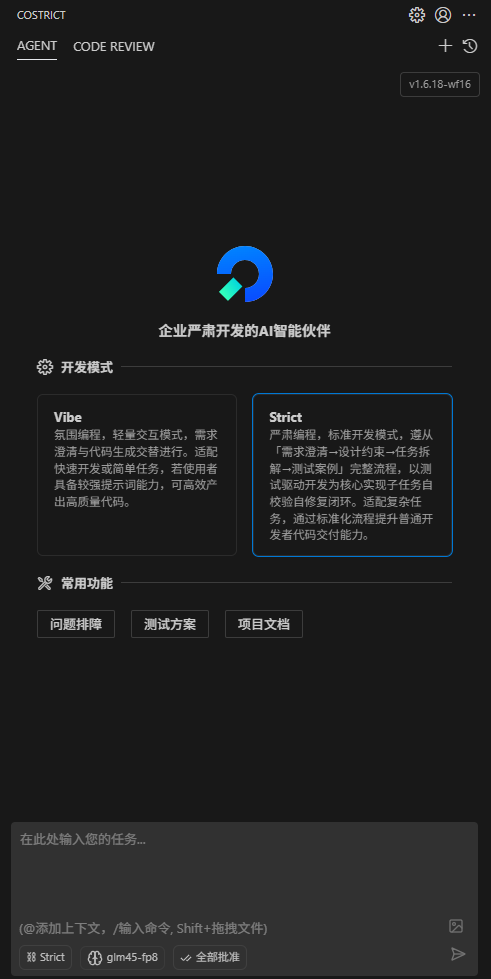
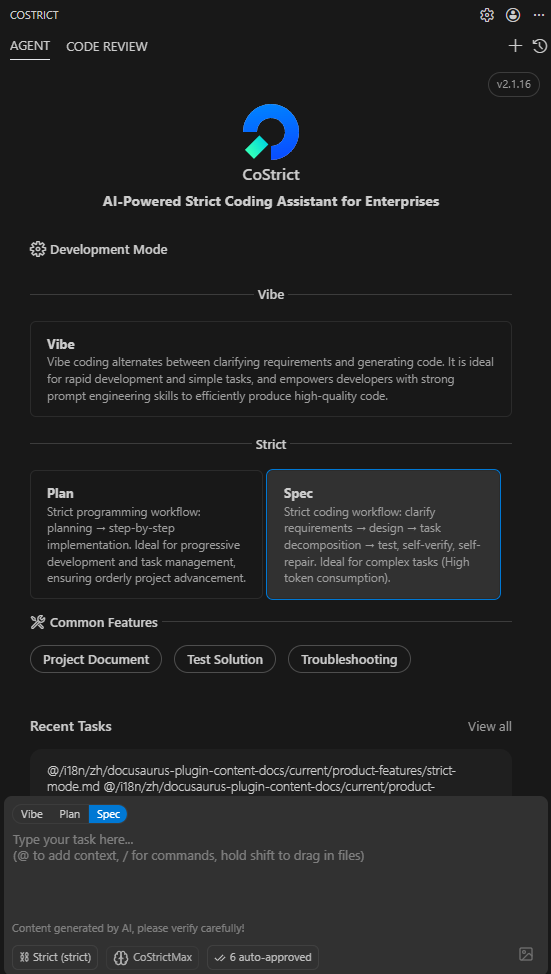
feat: update documentation for Skills, Plan, and Strict modes with improved descriptions and links

diff --git a/docs/product-features/strict-mode.md b/docs/product-features/strict-mode.md
@@ -2,29 +2,13 @@
 sidebar_position: 1
 ---
 
-# Strict Mode
+# Strict Mode (Spec Mode)
 
-Strict Mode is a structured, systematic development approach that rigorously follows enterprise development process standards. Through project understanding, requirement clarification, task decomposition, and self-testing with self-repair, it helps AI better comprehend enterprise business logic and continuously improve code generation quality. This shifts the focus of AI programming from code generation speed to code generation quality, achieving true efficiency improvements.
+Serious programming following the **"Requirement Clarification → Design → Task Decomposition → Self-Testing with Self-Repair"** workflow. Suitable for complex tasks.
 
-------------------------------------------------------------------------
+## New Spec Mode Enhances Understanding of Existing Projects, Making AI Programming More Reliable
 
-# Introducing Strict Mode for Enhanced Project Understanding and More Reliable AI Programming
-
-In this update, we have introduced two development modes—Vibe and Strict—to meet different development scenario requirements.
-
-<!-- ![descript](./img/strict-mode/image1.png) -->
-
-### 1.1 Strict Mode
-
-Strict Mode, also known as the Serious Programming Mode, follows the **"Project Reverse Engineering → Requirement Clarification → Design → Task Decomposition → Self-Testing with Self-Repair"** workflow. It effectively helps AI accurately understand existing project dependencies and reuse established code standards, improving AI delivery quality through standardized processes and **generating more usable code.**
-
-It is worth noting that Strict Mode consumes a significant amount of tokens and is recommended for complex task scenarios such as **"adding new features to existing code."**
-
-### 1.2 Vibe Mode
-
-Vibe Mode continues to use the previous development approach, alternating between requirement clarification and code generation. It is **suitable for rapid development or simple task scenarios.** If users have strong prompt engineering skills, they can still produce high-quality code through Vibe Mode.
-
-------------------------------------------------------------------------
+![descript](./img/strict-mode/image1.png)
 
 ## Built-in Intelligent Tools to Enhance Generation Quality and Improve Coding Standards
 
@@ -32,11 +16,11 @@ CoStrict includes multiple intelligent tools to enhance generation quality, incl
 
 ### 2.1 Project Understanding
 
-The large model generates a project knowledge base and rules **"optimized for AI reading"** to help AI understand business logic and improve code generation accuracy. This can be used in both Strict Mode and Vibe Mode.
+The large model generates a project knowledge base and rules **"optimized for AI reading"** to help AI understand business logic and improve code generation accuracy.
 
 ### 2.2 Testing Strategy
 
-Analyzes and generates project testing strategies, which can be used in both Strict Mode and Vibe Mode.
+Analyzes and generates project testing strategies, which can be used in both Spec Mode and Vibe Mode.
 
 ### 2.3 Troubleshooting
 
@@ -46,9 +30,7 @@ For detailed usage instructions, please refer to the [CoStrict 2.0 User Manual](
 
 ## Supporting Intelligent Collaboration Workflow for More Efficient and Controllable Development
 
-Strict Mode supports visualization and editing of the task process, allowing developers to directly modify documents during execution and collaborate with AI in real-time. The entire workflow follows the automated chain of **"Requirement Clarification → Design → Task Decomposition → Self-Testing with Self-Repair."** When requirement documents are updated, they can be synchronized to the design and implementation stages with one click. At the same time, decomposed subtasks can be executed and tested independently, making the overall process more efficient and controllable.
-
-------------------------------------------------------------------------
+Spec Mode supports visualization and editing of the task process, allowing developers to directly modify documents during execution and collaborate with AI in real-time. The entire workflow follows the automated chain of **"Requirement Clarification → Design → Task Decomposition → Self-Testing with Self-Repair."** When requirement documents are updated, they can be synchronized to the design and implementation stages with one click. At the same time, decomposed subtasks can be executed and tested independently, making the overall process more efficient and controllable.
 
 ### 3.1 Visualizable and Editable Task Process
 
@@ -67,17 +49,3 @@ Following the **"Requirement Clarification → Design → Task Decomposition →
 Each task decomposed from requirements can be executed and tested independently, making tasks more controllable.
 
 <!-- ![descript](./img/strict-mode/image4.png) -->
-
-# Get CoStrict 2.0
-
-Open VS Code, click on the Extensions Marketplace, search for CoStrict, and update the extension.
-
-![descript](./img/strict-mode/image5.png)
-
-# Notes
-
-1. Due to the high token consumption in Strict Mode, please ensure you have sufficient model tokens before use.
-
-2. To ensure optimal generation results, it is recommended to use GLM4.5 or GLM4.6 models.
-
-------------------------------------------------------------------------

diff --git a/docs/product-features/Skills/skills.md b/docs/product-features/Skills/skills.md
@@ -372,6 +372,5 @@ CoStrict adds mode-specific targeting beyond the base format:
 ## See Also
 
 
-- Custom Instructions - Set general rules that apply to all work
-- Slash Commands - Execute commands that return content
-- Custom Modes - Create specialized modes with specific tool access
+- [Slash Commands](../slash-command.md) - Execute commands that return content
+- [Custom Modes](../rules.md) - Create specialized modes with specific tool access

diff --git a/i18n/zh/docusaurus-plugin-content-docs/current/product-features/Skills/skills.md b/i18n/zh/docusaurus-plugin-content-docs/current/product-features/Skills/skills.md
@@ -299,6 +299,5 @@ CoStrict 在基本格式之外添加了特定模式定向：
 
 ## 另请参阅
 
-- 自定义指令 - 设置适用于所有工作的一般规则
-- 斜杠命令 - 执行返回内容的命令
-- 自定义模式 - 创建具有特定工具访问权限的专业模式
+- [斜杠命令](../slash-command.md) - 执行返回内容的命令
+- [自定义模式](../rules.md) - 创建具有特定工具访问权限的专业模式

diff --git a/docs/product-features/plan.md b/docs/product-features/plan.md
@@ -2,7 +2,9 @@
 sidebar_position: 2
 ---
 
-# Plan Mode
+# Strict Mode (Plan Mode)
+
+Serious programming following the **"Plan Formulation → Step-by-Step Implementation"** workflow. Suitable for incremental development and task management, ensuring orderly project progress.
 
 ## Software Version
 

diff --git a/i18n/zh/docusaurus-plugin-content-docs/current/product-features/plan.md b/i18n/zh/docusaurus-plugin-content-docs/current/product-features/plan.md
@@ -2,7 +2,9 @@
 sidebar_position: 2
 ---
 
-# Plan模式
+# 严肃编程模式（Plan Mode）
+
+严肃编程，遵从「计划制定→分步实施」流程。适用于渐进式开发和任务管理，确保项目有序推进。
 
 ## 软件版本
 
